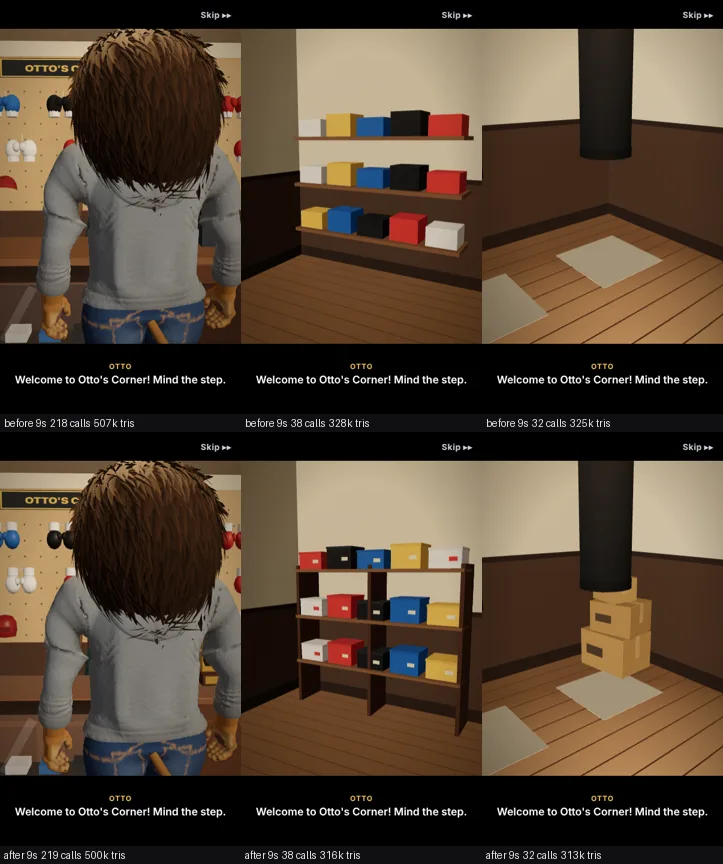
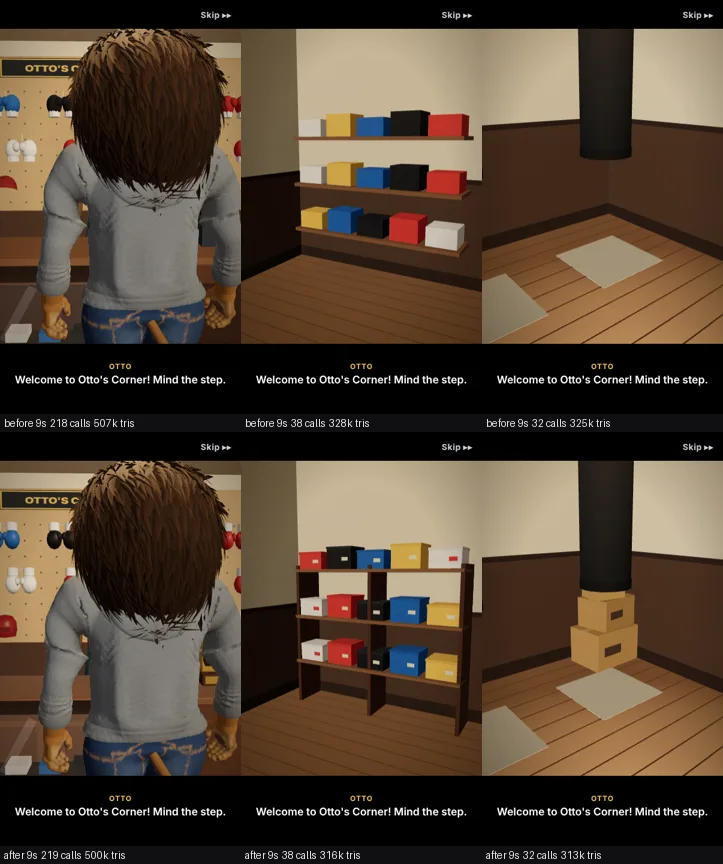
Blender props round 2: v1.93 merged, complete before/after evidence (opening, shop re-capture, ring fights with fixed close-ups), backlog line, handoff
Claude-Session: https://claude.ai/code/session_012XYxhNGd6wn6U9MuUmHsfB

Changed region(s): [[0.7911, 0.6562, 0.9129, 0.7812]]

diff --git a/docs/checkpoints/blender-props-2.md b/docs/checkpoints/blender-props-2.md
@@ -47,36 +47,27 @@ ringside and the bus stop, with the same pattern as round 1 (`docs/checkpoints/b
   generated, never both; at most one more draw call per story set; arena sets: same mesh count), the films' waits.
 - `tests/blender-props.test.cjs`: two regexes widened for the new ready lists.
 
-## Evidence so far (qa/blender-props-2/, 402x690 swiftshader, high quality; PAUSED 2026-11-24 for the v1.93 release)
-- Sheets: `market|shop|docks-before-after.webp` (film shots) and `closeups-market|shop|docks-before-after.webp`; raw numbers
-  `*-high.json` (zero page errors in every run); arena-set numbers `arena-numbers.json` (node, `arena-tiers.cjs`).
-- Renderer (film shots, before -> after): market robbery calls equal, triangles +30k (480k->510k ... 1240k->1270k, ~+3 %);
-  Otto's shop calls +1 (the glossy prop mesh), triangles -8k (the generated glove spheres were heavier); docks calls equal,
-  triangles +10..14k (~+1.5 %). Arena sets (node): docks 38 meshes either way, 56.9k -> 72.5k triangles, crowd detail kept;
-  boxing club +2.3k, regional +0.8k, championship +1.4k, no extra meshes.
-- Looked at critically: market counters, crates, barrels, sacks, cart and price boards grounded and in scale; no duplicates.
-  Shop: fixed after review - the cartons stood right under the first bag (moved along the wall, commit 'cartons'); the shop
-  sheet above still shows the OLD carton place (re-capture pending).
-- NOT yet captured: dream_opening after (ticket machine), ring fights after, and valid ring-fight before close-ups (the first
-  fight.cjs aimed at the wrong group; fixed: venue close-ups now look across the ring because arena-sets hides the near sectors).
+## Evidence (qa/blender-props-2/, 402x690 swiftshader, high quality; complete 2026-11-25 after the v1.93 merge)
+- Film sheets: `market|shop|docks|opening-before-after.webp`; close-ups `closeups-market|shop|docks|opening-before-after.webp`;
+  ring fights `ring-fight-before-after.webp` (the fight view) and `ring-close-before-after.webp` (ringside; fighters hidden for
+  the close-ups because venue sets hide the sectors on the camera's side). Raw numbers `*-high.json`; zero page errors in all
+  14 browser runs. Arena numbers (node) `arena-numbers.json` via `arena-tiers.cjs`. Before = base 719e9bc, after = this branch.
+- Renderer before -> after: market robbery calls equal, triangles +30k (~3 %); Otto's shop calls +1 (glossy prop mesh), -8k
+  triangles; docks film calls equal, +10..14k; opening (ticket machine) +1 call, +1k; ring fights (fight view) calls equal:
+  gym ring 1283k -> 1277k (animation noise), boxing club +1.6k, regional -0.8k, championship +0.4k, docks fight +14k.
+  Arena sets (node): no extra meshes; docks 56.9k -> 72.5k triangles with the crowd's detail kept.
+- Reviewed: market counters/crates/barrels/sacks/cart/price boards grounded, in scale, off the lane; shop cartons moved out from
+  under the first bag (verified in the new close-up); ticket machine at the generated place and size; timekeeper's tables with bell
+  and clock; stacked dock crates and drums with the cash on the drum. No duplicates with the fallback, no z-fighting seen.
+- No painted lettering on any new prop (chalk strokes, blank labels, bar digits): lang-generic passes.
 
-## Tests (2026-11-24)
-- `bash scripts/run-tests.sh -j 2 city street dream market docks props offline arrival fight` -> files=31 fails=1
-  (city-assets: status() expectations lacked the four new files; fixed and re-run alone: ok).
-- `bash scripts/run-tests.sh -j 2 arena venue ringless roam gym bag super chapter1 city-assets` -> files=20 fails=1:
-  story-clean-gym.test.cjs (browser run timed out waiting for the career-welcome dialog at load average ~23; looks
-  load-related, NOT yet re-run or compared on the base) - re-run it first.
-- `node tests/blender-props-2.test.cjs`, `blender-props.test.cjs`, `arena-sets.test.cjs`, `city-assets.test.cjs`: ok.
-
-## Next commands (resume)
-1. `timeout 900 node tests/story-clean-gym.test.cjs` (and on the base tree if it fails again).
-2. Captures (scripts in qa/blender-props-2; cameras in the handoff below):
-   `SCENE=dream_opening TIMES=7.3,8.5,9.8,9.8 CAM=";;;-3.4,1.4,4.0|-4.7,0.9,6.3|45" node qa/blender-props-2/capture.cjs <out> opening-after`,
-   `SCENE=dream_otto_shop TIMES=1.5,5.5,9,15.5,25,9,9,9 CAM=";;;;;41.3,1.65,1.2|41.4,1.4,-2.6|50;39.6,1.6,0.6|36.4,1.1,2.4|50;39.0,1.5,-0.6|36.6,0.6,-2.6|50" ... shop-after`,
-   `node qa/blender-props-2/fight.cjs <out> fight-after` and `ROOT=<base tree> node qa/blender-props-2/fight.cjs <out> fight-before`,
-   then `python3 qa/blender-props-2/sheets.py <out> qa/blender-props-2`. Use a unique scratch dir (other agents share it) and
-   run_in_background with a long timeout.
-3. Backlog: add the round-2 line under GOTR-0066 in FEEDBACK_BACKLOG.md once the evidence is complete.
+## Tests (2026-11-25, after merging origin/claude/ecstatic-clarke-9as2ak 60d658d = v1.93; targeted, one at a time)
+- PASS: lang-generic, offline-version-match, city-assets, blender-props-2, blender-props, arena-sets, dream-scenes,
+  dream-market-films, docks-films, dream-bag-break, dream-gym-return, arrival-background.
+- story-clean-gym: failed 2x on this branch, then PASSED (190 s, real touch tap unchanged). The released tree 60d658d
+  itself passed once and failed once with the same timeout (welcome card's Start "not stable"), so it is flaky, not caused here.
+- Merge: index.html took v1.93's and re-bumped the eight changed scripts to `?v=20261125props2`; offline-manifest.json
+  regenerated. version.js / offline worker untouched.
 
 ## Remaining / next
 - Venue fights (free fights in Boxing Club / Regional / Championship / Docks): the set is built at once, so the very first

diff --git a/docs/glory-of-the-ring/FEEDBACK_BACKLOG.md b/docs/glory-of-the-ring/FEEDBACK_BACKLOG.md
@@ -1126,6 +1126,7 @@ User tested the published build. Wording below is the user's request, lightly cl
 - **Old Town asset follow-up (2026-11-13):** `5714256` source/materials; `bfeb1ac` editable/GLB exports and r128 render evidence. Two building prototypes with substantial walls and true window holes, bounded interiors, hip/parapet roofs, exposed masonry and paint tag, drainage, supported awnings and roof details. Exact ray/loader checks pass, zero browser errors/warnings; [delivery and limitations](../adventure/OLDTOWN_ART_DELIVERY_20261113.md). This supersedes only the earlier note that façades were unimplemented. Full city integration, tree/car/market/character assets and physical-phone performance remain pending. No production app release or main merge from this asset batch.
 - **Game integration (2026-11-13, GOTR-0089):** the opening film's street (`dream_street`) uses the bus, station kit and two Old Town prototypes (four instances) with the generated set as fallback; see GOTR-0089 for loading, performance and evidence. Other story sets (`busstop`, `gymfront`, `market`) are still generated.
 - **Blender props (2026-11-22, `agent/blender-props`, READY FOR QA, not merged):** owner "improve the graphics as realistic as possible": street lamps, bins, planters with shrubs and flowers, bollards, the gym-front bench and two hydrants (city films), and Bruno's gym props (lockers, bench, water cooler, glove rack, medicine balls, dumbbell rack, kettlebells, skipping ropes, wall clock, ring bell, speed-bag platform, corner stool, bucket and towel, pendant lamps) modelled by script in headless Blender (`tools/blender/*-props.py`, two GLBs in `assets/street/ch01-props/`), merged into the sets with the generated pieces as fallback (never both). +1 draw call per scene; +28k triangles in the opening, +10k market, +16k gym. Evidence `qa/blender-props/` (before/after sheets high/low, close-ups, `renderer-numbers.json`), `tests/blender-props.test.cjs`. Not done: training-gym props in `club-world.js`.
+- **Blender props round 2 (2026-11-24, `agent/blender-props-2`, READY FOR QA, not merged; `docs/checkpoints/blender-props-2.md`):** owner "add as much design changes … use blender" before the pause, stability first. Modelled in Blender (deterministic scripts `tools/blender/{market,dock,ring,stop}-props.py`, quantized GLBs 1.1 MB / 258 KB / 133 KB / 35 KB, every prop under 4k triangles, glove wall 5.7k): Market Row stall counters and awning frames, fruit crates (6 fruits), barrels, sacks, plus baskets, chalk price boards and a hand cart; Otto's counter, cash register, glove wall, shelves, price stand, bench, lamps, cartons (heavy bags and the carried bag untouched); the Docks hangar's crates, oil drums, pallets with cargo, quay bollards, work lamp and rope coils (film and fight); ringside stool, buckets, steps, towel rail and judges'/timekeeper's tables in the built venues and on fight night in Bruno's Gym; the bus stop's ticket machine. Each piece is the model when loaded, else the generated one, never both; no painted lettering. Cost: +0/+1 draw call per scene, market +30k triangles (~3 %), shop -8k, docks +10..20k, venues +1..16k with the crowd's detail kept. Evidence `qa/blender-props-2/*-before-after.webp`. Tests `tests/blender-props-2.test.cjs`. Limit: a venue's first fight in a session uses the generated pieces while the file loads.
 
 ### GOTR-0067 — Story scenes: street clothes, a sport bag and natural movement
 - **Reported:** 2026-11-12 (v1.41 arrival scene)
